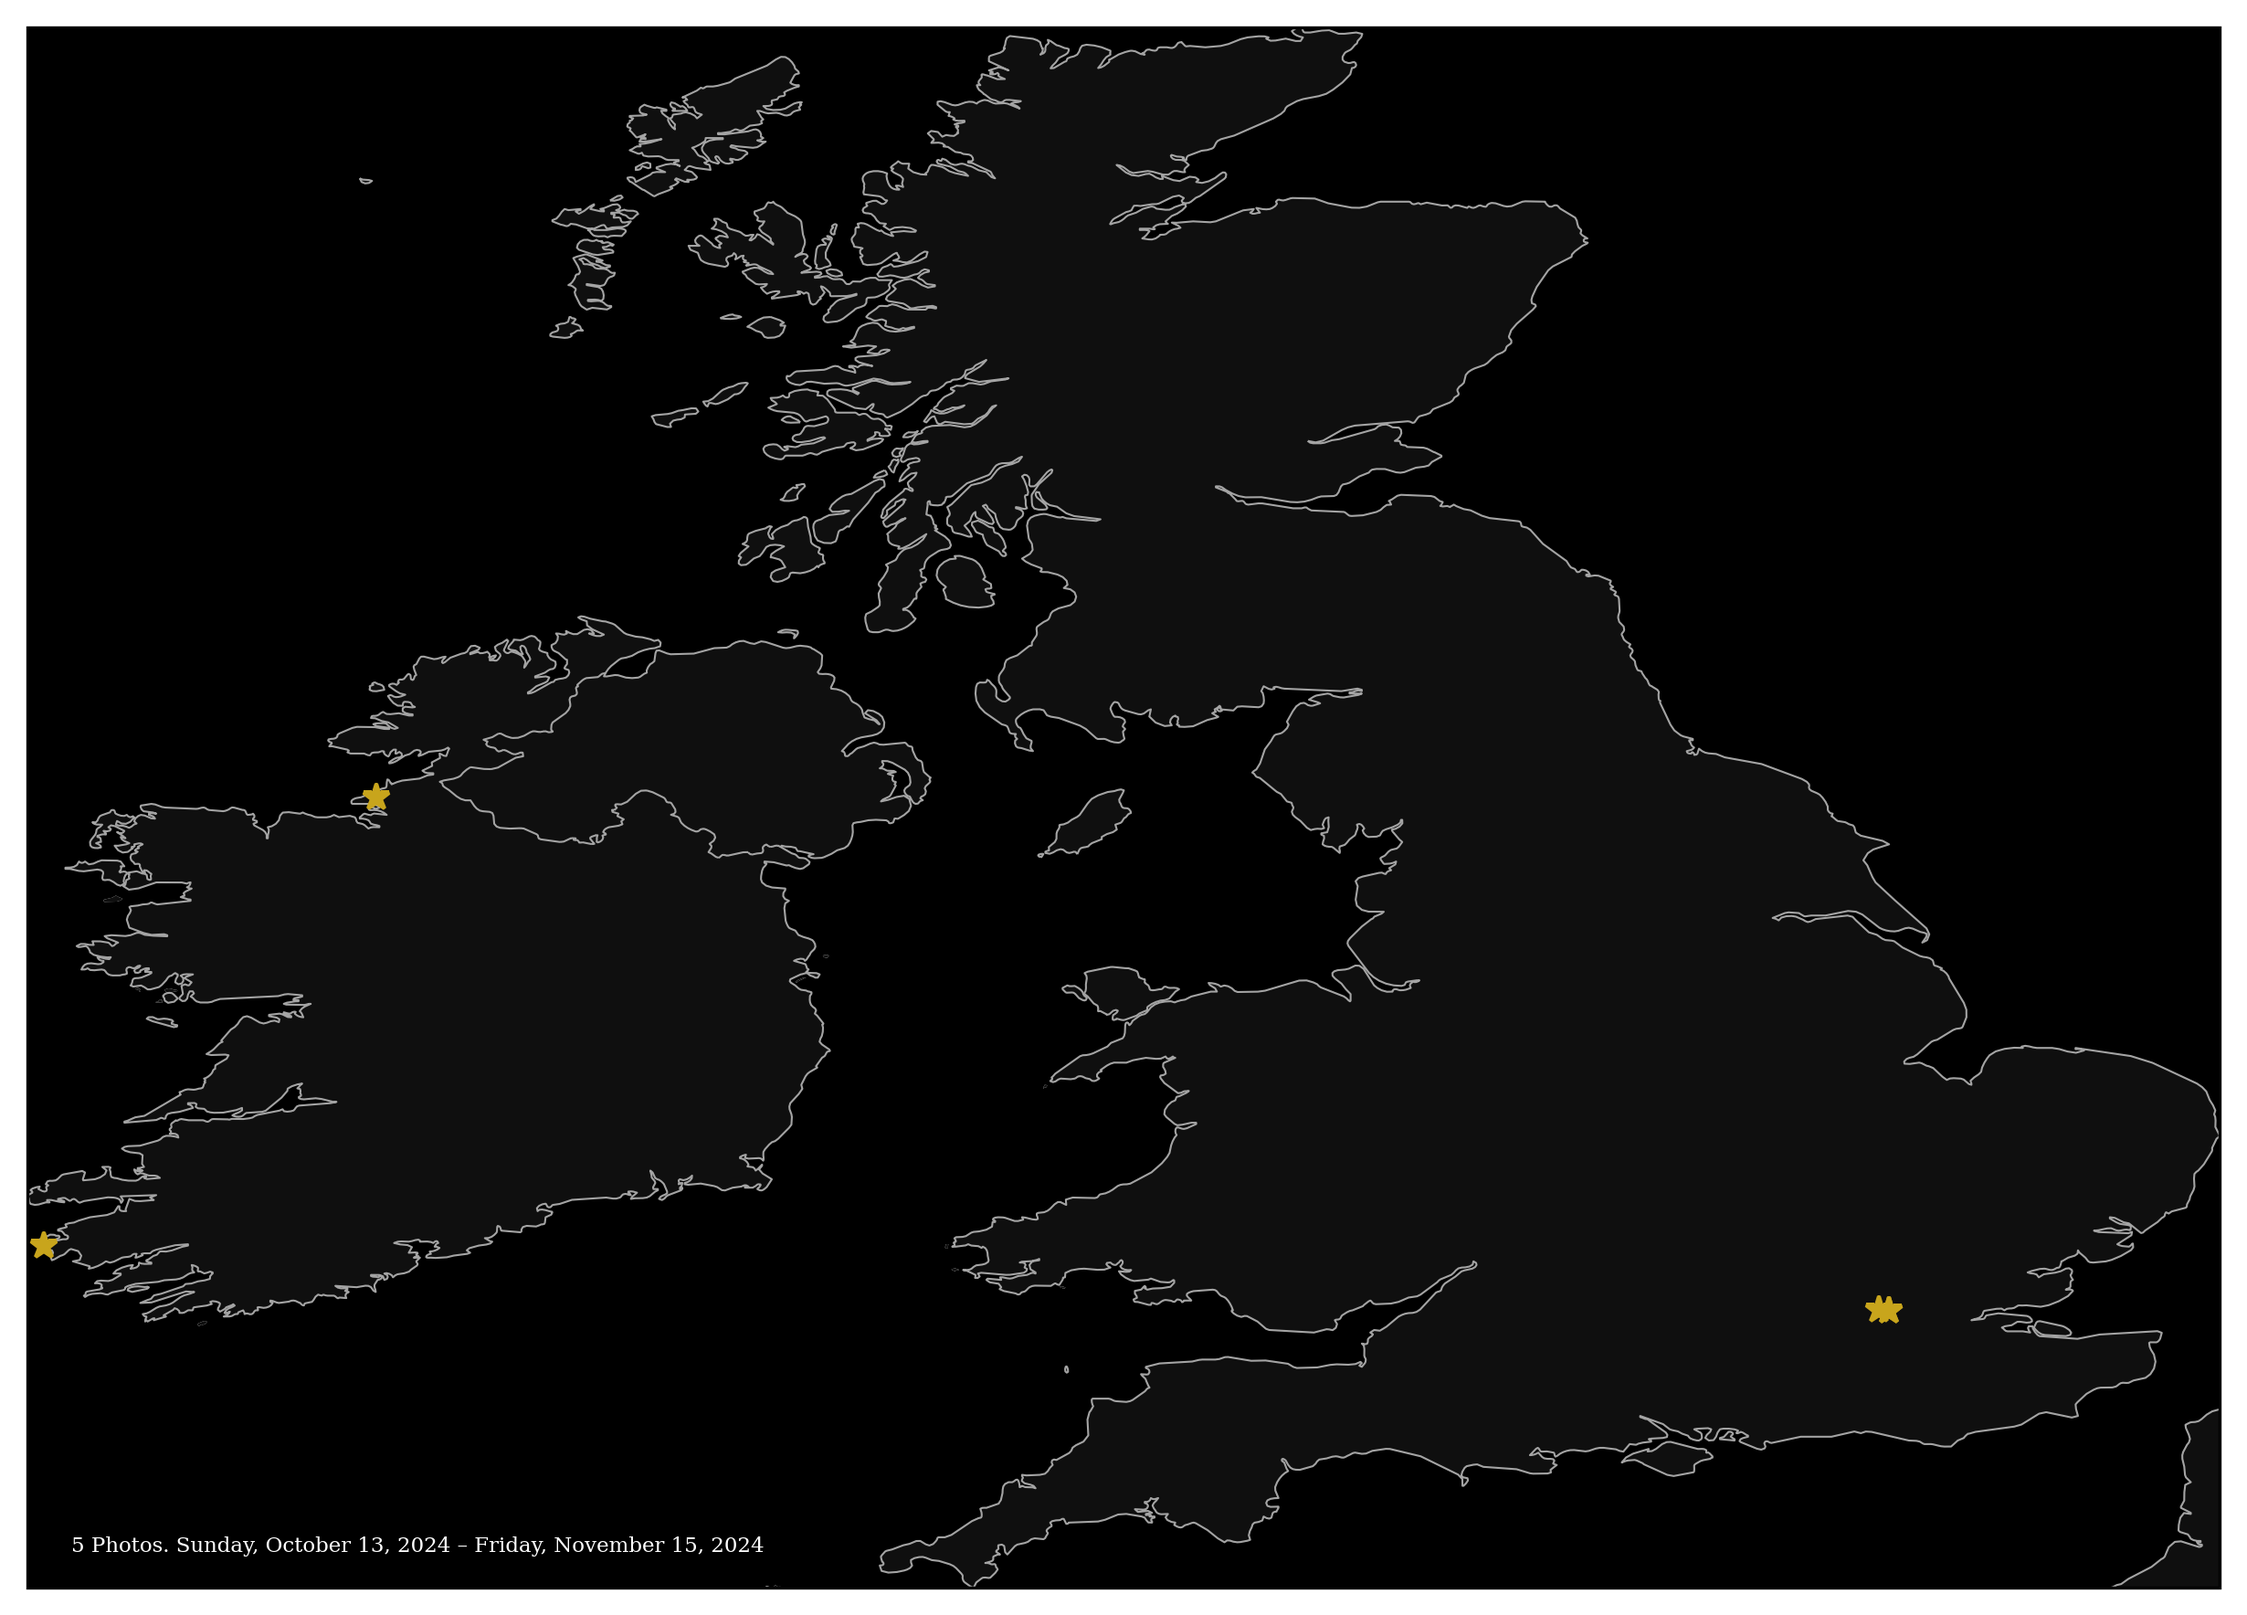
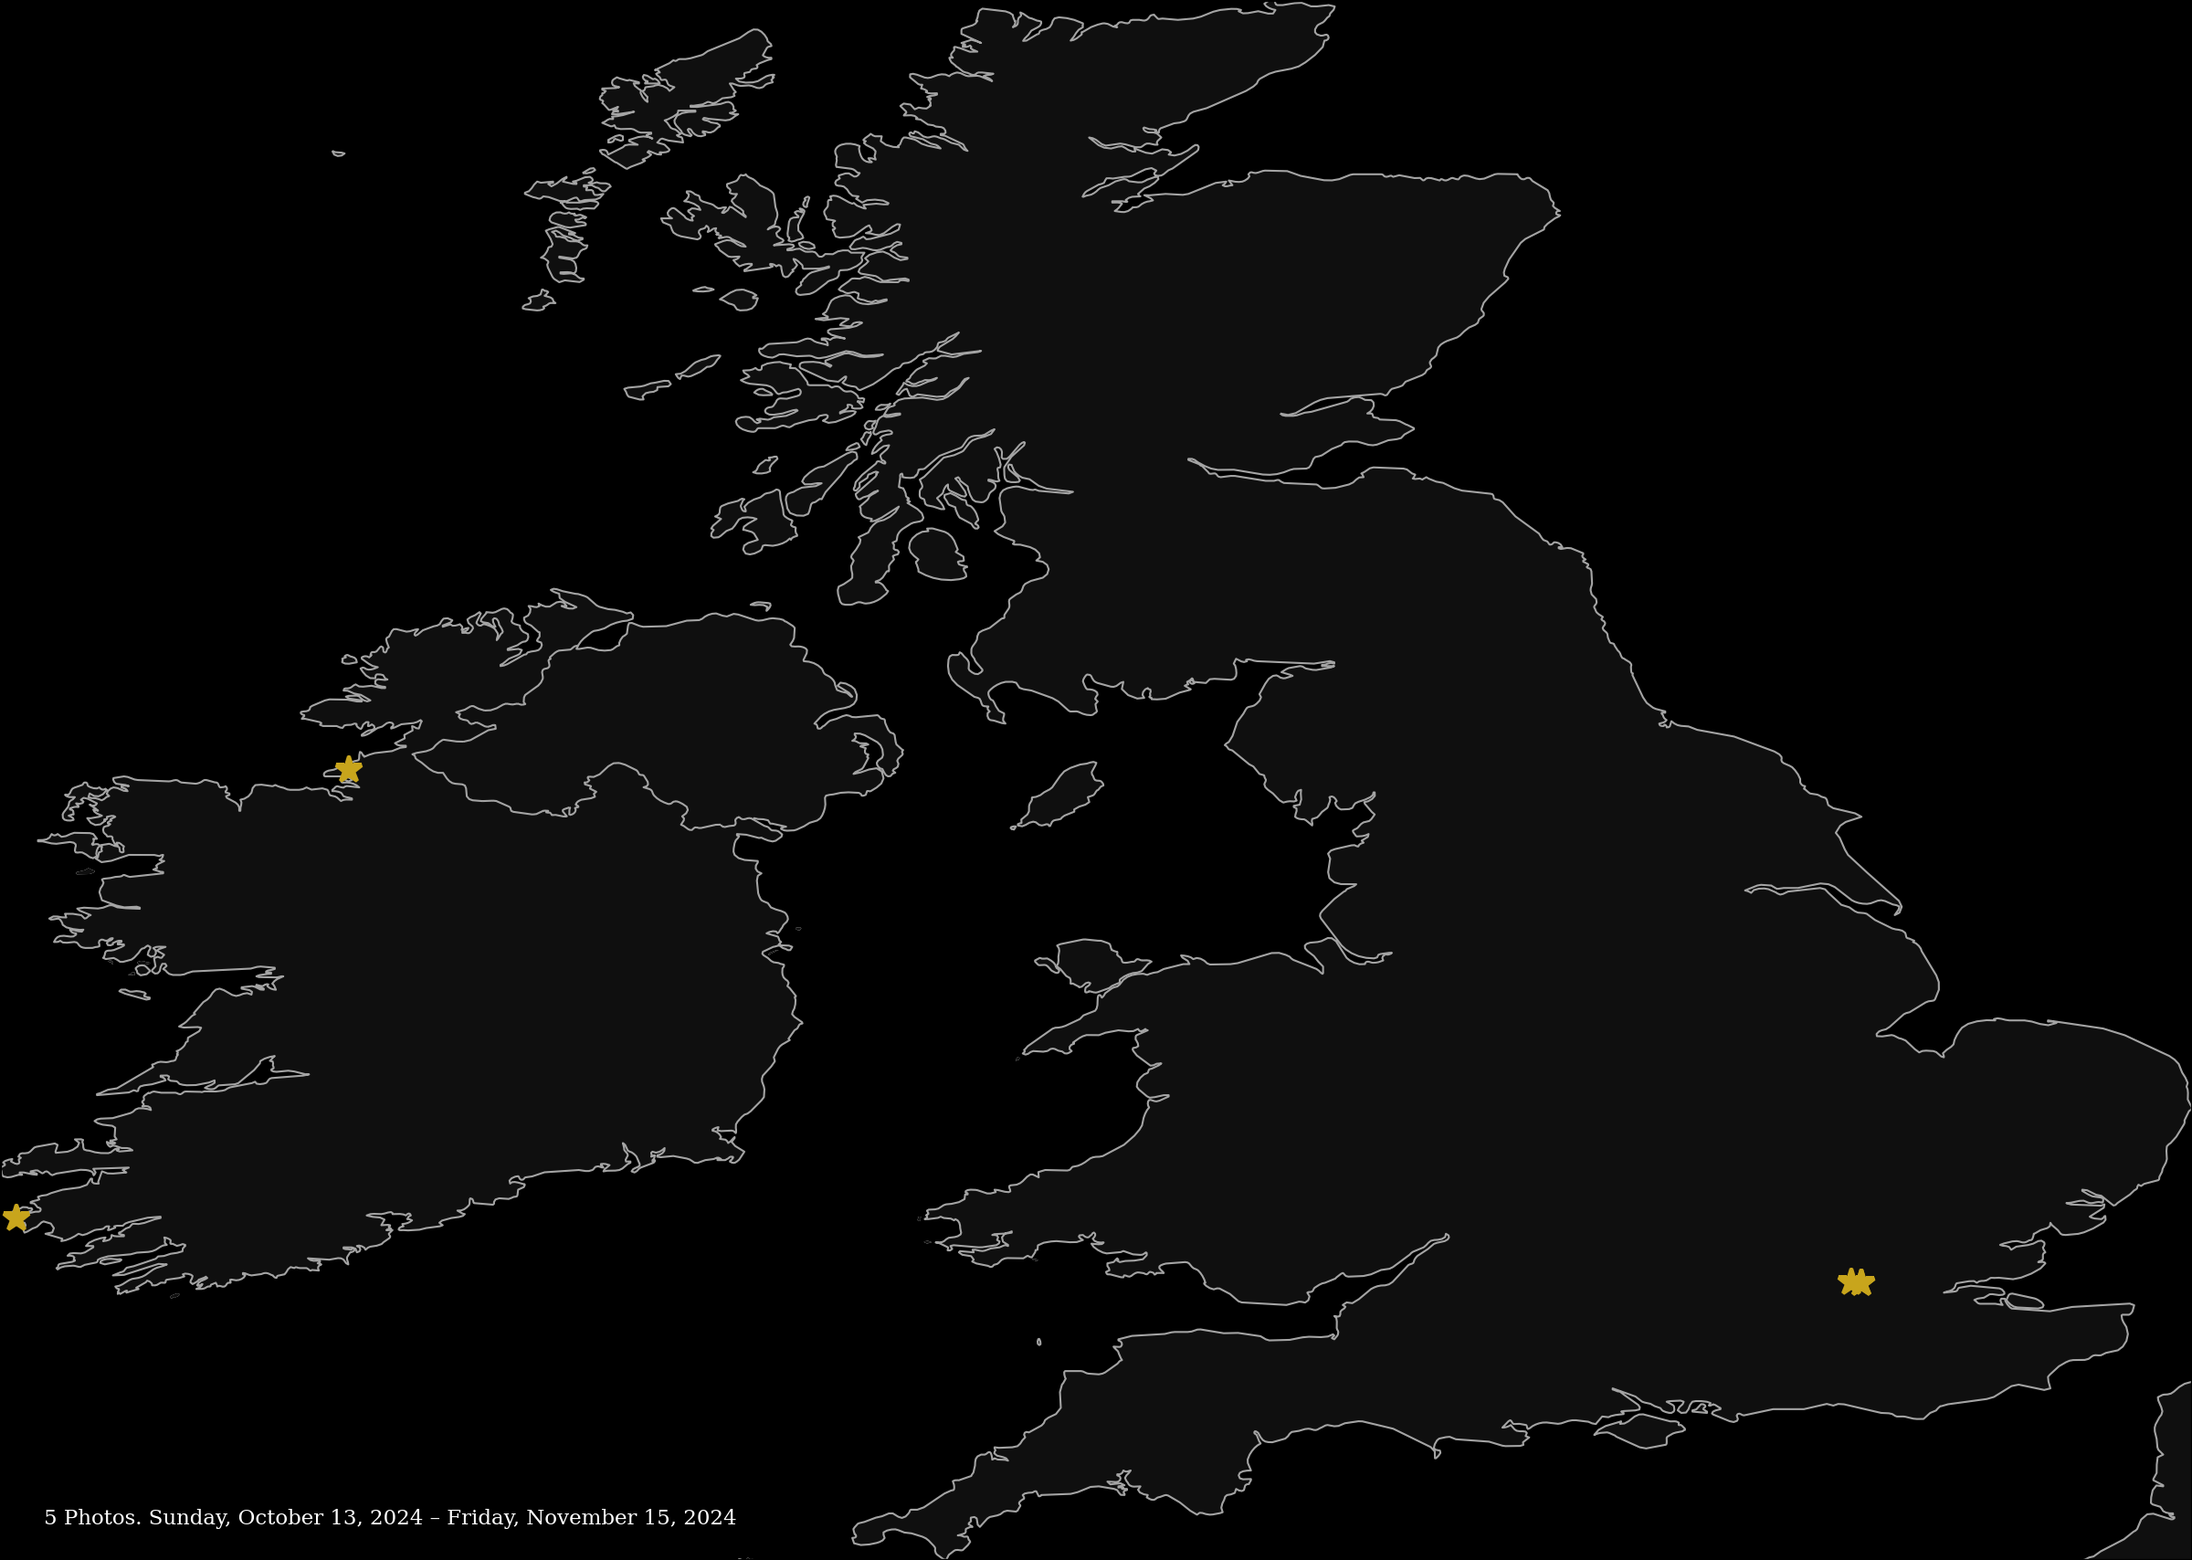
Timestamping and preparation for arranging

diff --git a/album.html b/album.html
@@ -1,0 +1,186 @@
+<!doctype html>
+<html lang="en">
+<head>
+<meta charset="utf-8" />
+<meta name="viewport" content="width=device-width,initial-scale=1" />
+<title>Locator Album</title>
+<style>
+:root{
+  --bg: #000000;
+  --card: #0F0F0F;
+  --text: #FFFFFF;
+  --muted: #A4A4A4;
+  --accent: #C8A51C;
+  --accent2: #880000;
+  --water: #29449b;
+  --font: serif;
+}
+*{box-sizing:border-box}
+body{
+  margin:0;padding:24px;background:var(--bg);color:var(--text);
+  font-family:var(--font), system-ui, -apple-system, Segoe UI, Roboto, sans-serif;
+}
+header{
+  border:1px solid var(--muted); background:var(--card); border-radius:12px;
+  padding:16px 18px; margin-bottom:18px;
+}
+h1{margin:0 0 8px;font-size:1.5rem}
+.sub{color:var(--muted);font-size:.9rem}
+.summary-grid{
+  display:grid;grid-template-columns:repeat(auto-fit,minmax(240px,1fr));gap:10px;margin-top:12px;
+}
+.summary-grid img{
+  width:100%;height:auto;border-radius:10px;border:1px solid var(--muted);display:block;
+}
+.day{
+  margin:18px 0 24px; border-left:4px solid var(--accent); padding-left:10px;
+}
+.day h2{
+  margin:0 0 10px; font-size:1.05rem; color:var(--accent);
+}
+.entries{
+  display:grid; grid-template-columns:repeat(auto-fit,minmax(340px,1fr)); gap:12px;
+}
+.entries.smart{
+  display:flex; flex-wrap:wrap; gap:12px;
+}
+.entries.smart .entry{
+  flex: 1 1 360px;
+}
+.entries.smart .entry.landscape{
+  flex-basis: 460px;
+}
+.entries.smart .entry.portrait{
+  flex-basis: 300px;
+}
+.entry{
+  background:var(--card); border:1px solid var(--muted); border-radius:12px; padding:10px;
+}
+.entry-head{
+  margin-bottom:8px; padding-bottom:6px; border-bottom:1px dashed var(--muted);
+}
+.cap{font-weight:700}
+.meta{font-size:.88rem;color:var(--muted)}
+.pair{
+  display:grid; grid-template-columns:2fr 1fr; gap:8px; align-items:start;
+}
+.pair img{
+  width:100%; height:auto; display:block; border-radius:8px; border:1px solid var(--muted);
+  background:#000;
+}
+.missing{
+  border:1px dashed var(--accent2); border-radius:8px; padding:12px; font-size:.85rem; color:var(--muted);
+}
+small.coords{display:block;margin-top:8px;color:var(--muted)}
+</style>
+</head>
+<body>
+  <header>
+    <h1>Locator Album</h1>
+    <div class="sub">Entries: 5 · Generated: 2026-04-20 10:47 · Pack: chronological</div>
+    
+    <div class="summary-grid">
+      
+      <figure style="margin:0">
+        <img src="summaries/collection-summary.png" alt="collection-summary.png">
+        <figcaption class="sub" style="margin-top:4px">collection-summary.png</figcaption>
+      </figure>
+      
+      <figure style="margin:0">
+        <img src="summaries/country-Ireland.png" alt="country-Ireland.png">
+        <figcaption class="sub" style="margin-top:4px">country-Ireland.png</figcaption>
+      </figure>
+      
+      <figure style="margin:0">
+        <img src="summaries/country-United%20Kingdom.png" alt="country-United Kingdom.png">
+        <figcaption class="sub" style="margin-top:4px">country-United Kingdom.png</figcaption>
+      </figure>
+      
+    </div>
+    
+  </header>
+
+  
+  <section class="day">
+    <h2>Friday, November 15, 2024</h2>
+    <div class="entries">
+      
+      <article class="entry">
+        <div class="entry-head">
+          <div class="cap">Tower Bridge</div>
+          <div class="meta">test1.jpeg · Tower Bridge, Whitechapel, United Kingdom · 09:57:10 · portrait</div>
+        </div>
+        <div class="pair">
+          <img src="test/test1.jpeg" alt="test1.jpeg">
+          <img src="maps/test1.png" alt="Locator map for test1.jpeg">
+        </div>
+        <small class="coords">lat=51.506383, lon=-0.074719</small>
+      </article>
+      
+      <article class="entry">
+        <div class="entry-head">
+          <div class="cap">Tower of London</div>
+          <div class="meta">test4.jpeg · Tower of London, Whitechapel, United Kingdom · 10:19:58 · landscape</div>
+        </div>
+        <div class="pair">
+          <img src="test/test4.jpeg" alt="test4.jpeg">
+          <img src="maps/test4.png" alt="Locator map for test4.jpeg">
+        </div>
+        <small class="coords">lat=51.507300, lon=-0.076686</small>
+      </article>
+      
+      <article class="entry">
+        <div class="entry-head">
+          <div class="cap">Piccadilly Circus</div>
+          <div class="meta">test3.jpeg · Piccadilly Circus, Soho, United Kingdom · 12:11:13 · landscape</div>
+        </div>
+        <div class="pair">
+          <img src="test/test3.jpeg" alt="test3.jpeg">
+          <img src="maps/test3.png" alt="Locator map for test3.jpeg">
+        </div>
+        <small class="coords">lat=51.510125, lon=-0.134322</small>
+      </article>
+      
+    </div>
+  </section>
+  
+  <section class="day">
+    <h2>Saturday, October 26, 2024</h2>
+    <div class="entries">
+      
+      <article class="entry">
+        <div class="entry-head">
+          <div class="cap">Benbulbin</div>
+          <div class="meta">test5.jpeg · Benbulbin, Sligo, Ireland · 18:12:22 · landscape</div>
+        </div>
+        <div class="pair">
+          <img src="test/test5.jpeg" alt="test5.jpeg">
+          <img src="maps/test5.png" alt="Locator map for test5.jpeg">
+        </div>
+        <small class="coords">lat=54.373483, lon=-8.527669</small>
+      </article>
+      
+    </div>
+  </section>
+  
+  <section class="day">
+    <h2>Sunday, October 13, 2024</h2>
+    <div class="entries">
+      
+      <article class="entry">
+        <div class="entry-head">
+          <div class="cap">Kerry Cliffs</div>
+          <div class="meta">test2.jpeg · Kerry Cliffs, Cahersiveen, Ireland · 16:16:09 · landscape</div>
+        </div>
+        <div class="pair">
+          <img src="test/test2.jpeg" alt="test2.jpeg">
+          <img src="maps/test2.png" alt="Locator map for test2.jpeg">
+        </div>
+        <small class="coords">lat=51.868800, lon=-10.385461</small>
+      </article>
+      
+    </div>
+  </section>
+  
+</body>
+</html>

diff --git a/snapshot.py b/snapshot.py
@@ -82,13 +82,13 @@ def cluster_points(
     clusters: list[tuple[float, float, int]] = []
     for latitute, longitude in points:
         assigned = False
-        for idx, (clat, clon, count) in enumerate(clusters):
+        for index, (clat, clon, count) in enumerate(clusters):
             if haversine_m(latitute, longitude, clat, clon) <= min_distance_m:
                 # update centroid as running mean
                 new_count = count + 1
                 new_lat = (clat * count + latitute) / new_count
                 new_lon = (clon * count + longitude) / new_count
-                clusters[idx] = (new_lat, new_lon, new_count)
+                clusters[index] = (new_lat, new_lon, new_count)
                 assigned = True
                 break
         if not assigned:
@@ -150,6 +150,8 @@ def render_summary_map(
     aspect_main = geographic_aspect(world_region)
     fig_h = fig_width_in * aspect_main
     fig = plt.figure(figsize=(fig_width_in, fig_h), dpi=dpi)
+    fig.patch.set_facecolor(str(theme.get("oceancolor", DEFAULT_THEME["oceancolor"])))
+    fig.patch.set_edgecolor("none")
 
     ax = fig.add_axes([0, 0, 1, 1], projection=proj)
     ax.set_extent(world_region.as_extent())
@@ -179,7 +181,14 @@ def render_summary_map(
             zorder=10,
         )
 
-    plt.savefig(out_path, bbox_inches="tight", dpi=dpi)
+    plt.savefig(
+        out_path,
+        bbox_inches="tight",
+        pad_inches=0,
+        dpi=dpi,
+        facecolor=fig.get_facecolor(),
+        edgecolor="none",
+    )
     if show:
         plt.show()
 
@@ -685,6 +694,8 @@ def render_map(
     aspect_main = geographic_aspect(world_region)
     fig_h = fig_width_in * aspect_main
     fig = plt.figure(figsize=(fig_width_in, fig_h), dpi=dpi)
+    fig.patch.set_facecolor(str(theme.get("oceancolor", DEFAULT_THEME["oceancolor"])))
+    fig.patch.set_edgecolor("none")
 
     ax_main = fig.add_axes([0, 0, 1, 1], projection=proj)
     ax_main.set_extent(world_region.as_extent())
@@ -835,8 +846,14 @@ def render_map(
         )
         fig.add_artist(connection)
 
-    # avoid bbox expansion artifacts
-    plt.savefig(out_path, bbox_inches="tight", dpi=dpi)
+    plt.savefig(
+        out_path,
+        bbox_inches="tight",
+        pad_inches=0,
+        dpi=dpi,
+        facecolor=fig.get_facecolor(),
+        edgecolor="none",
+    )
     if show:
         plt.show()
 
